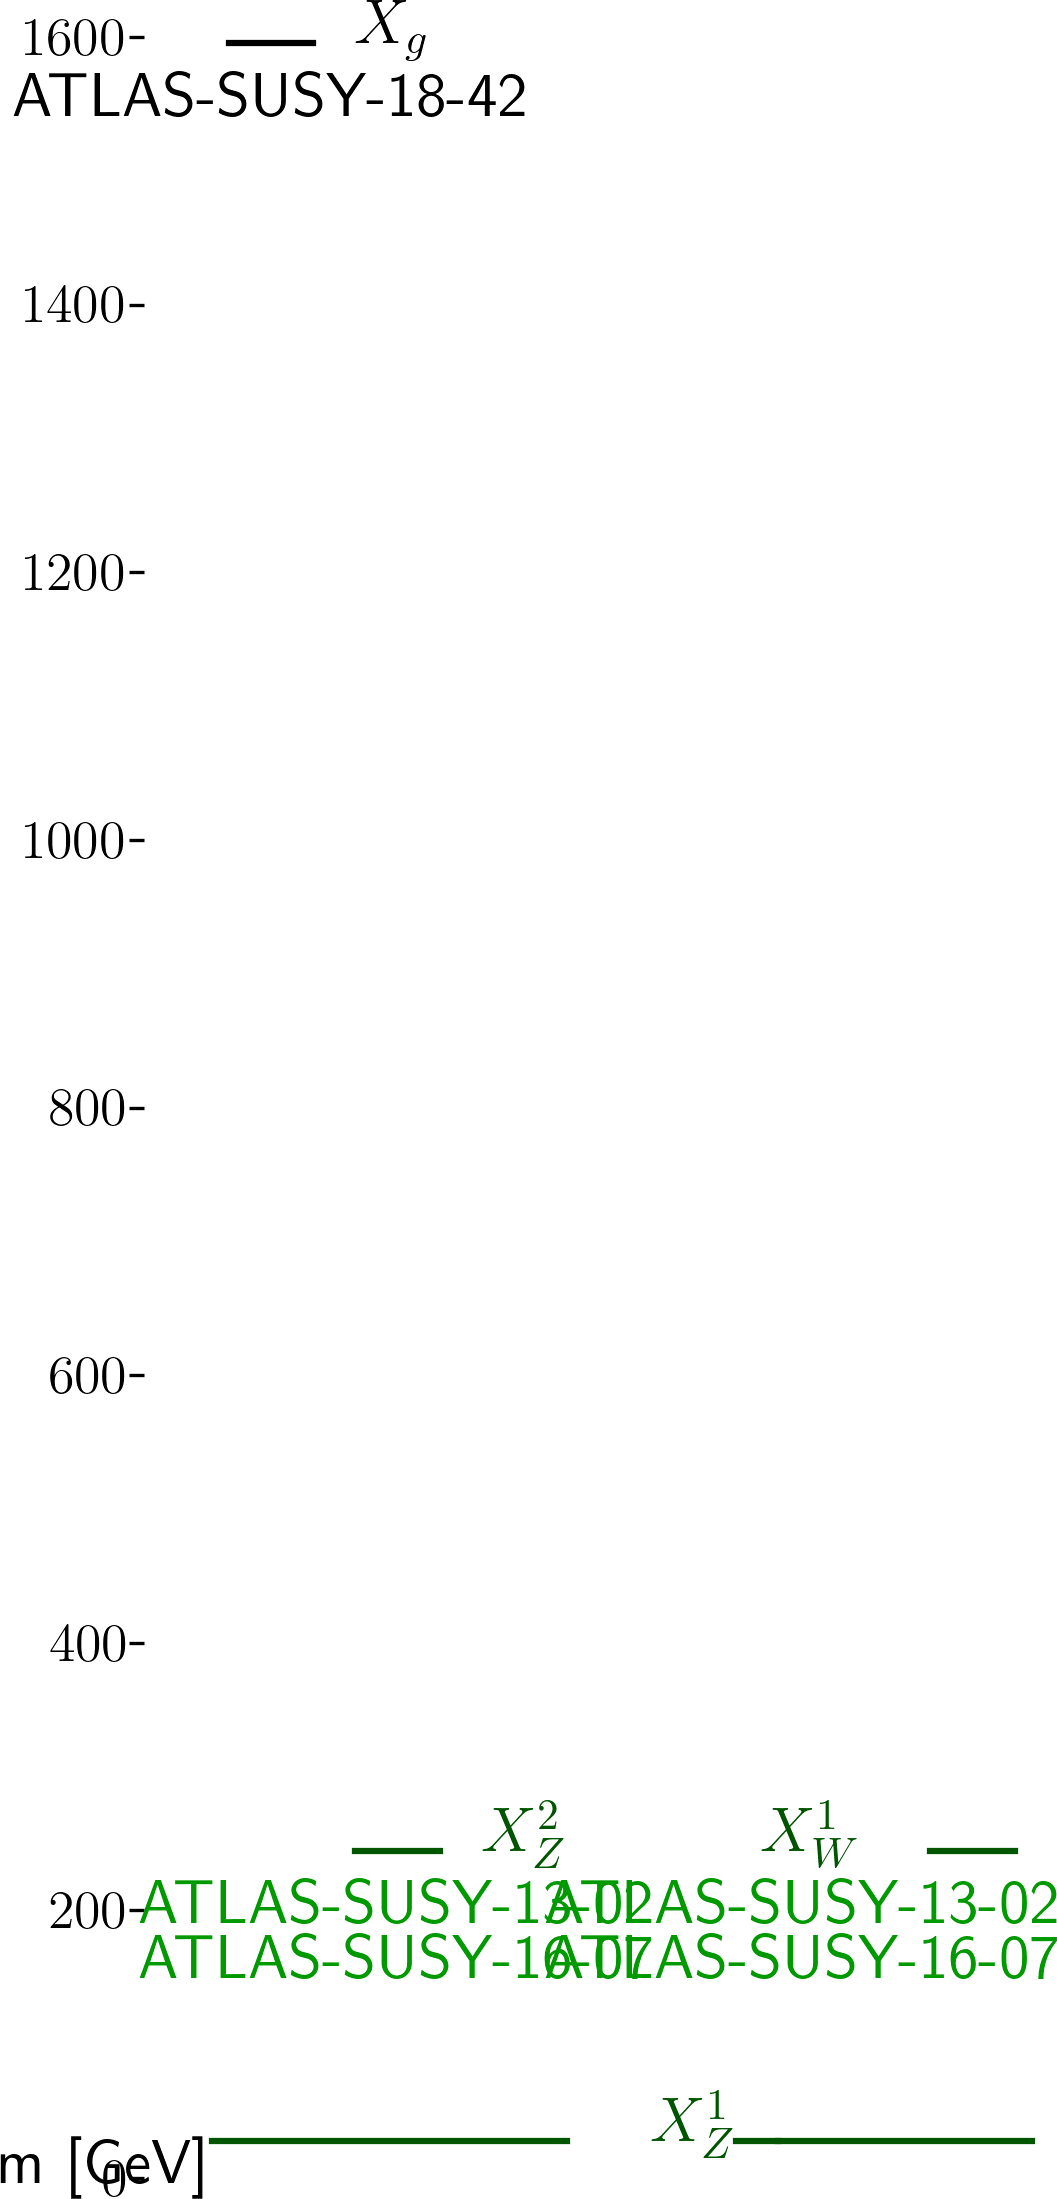
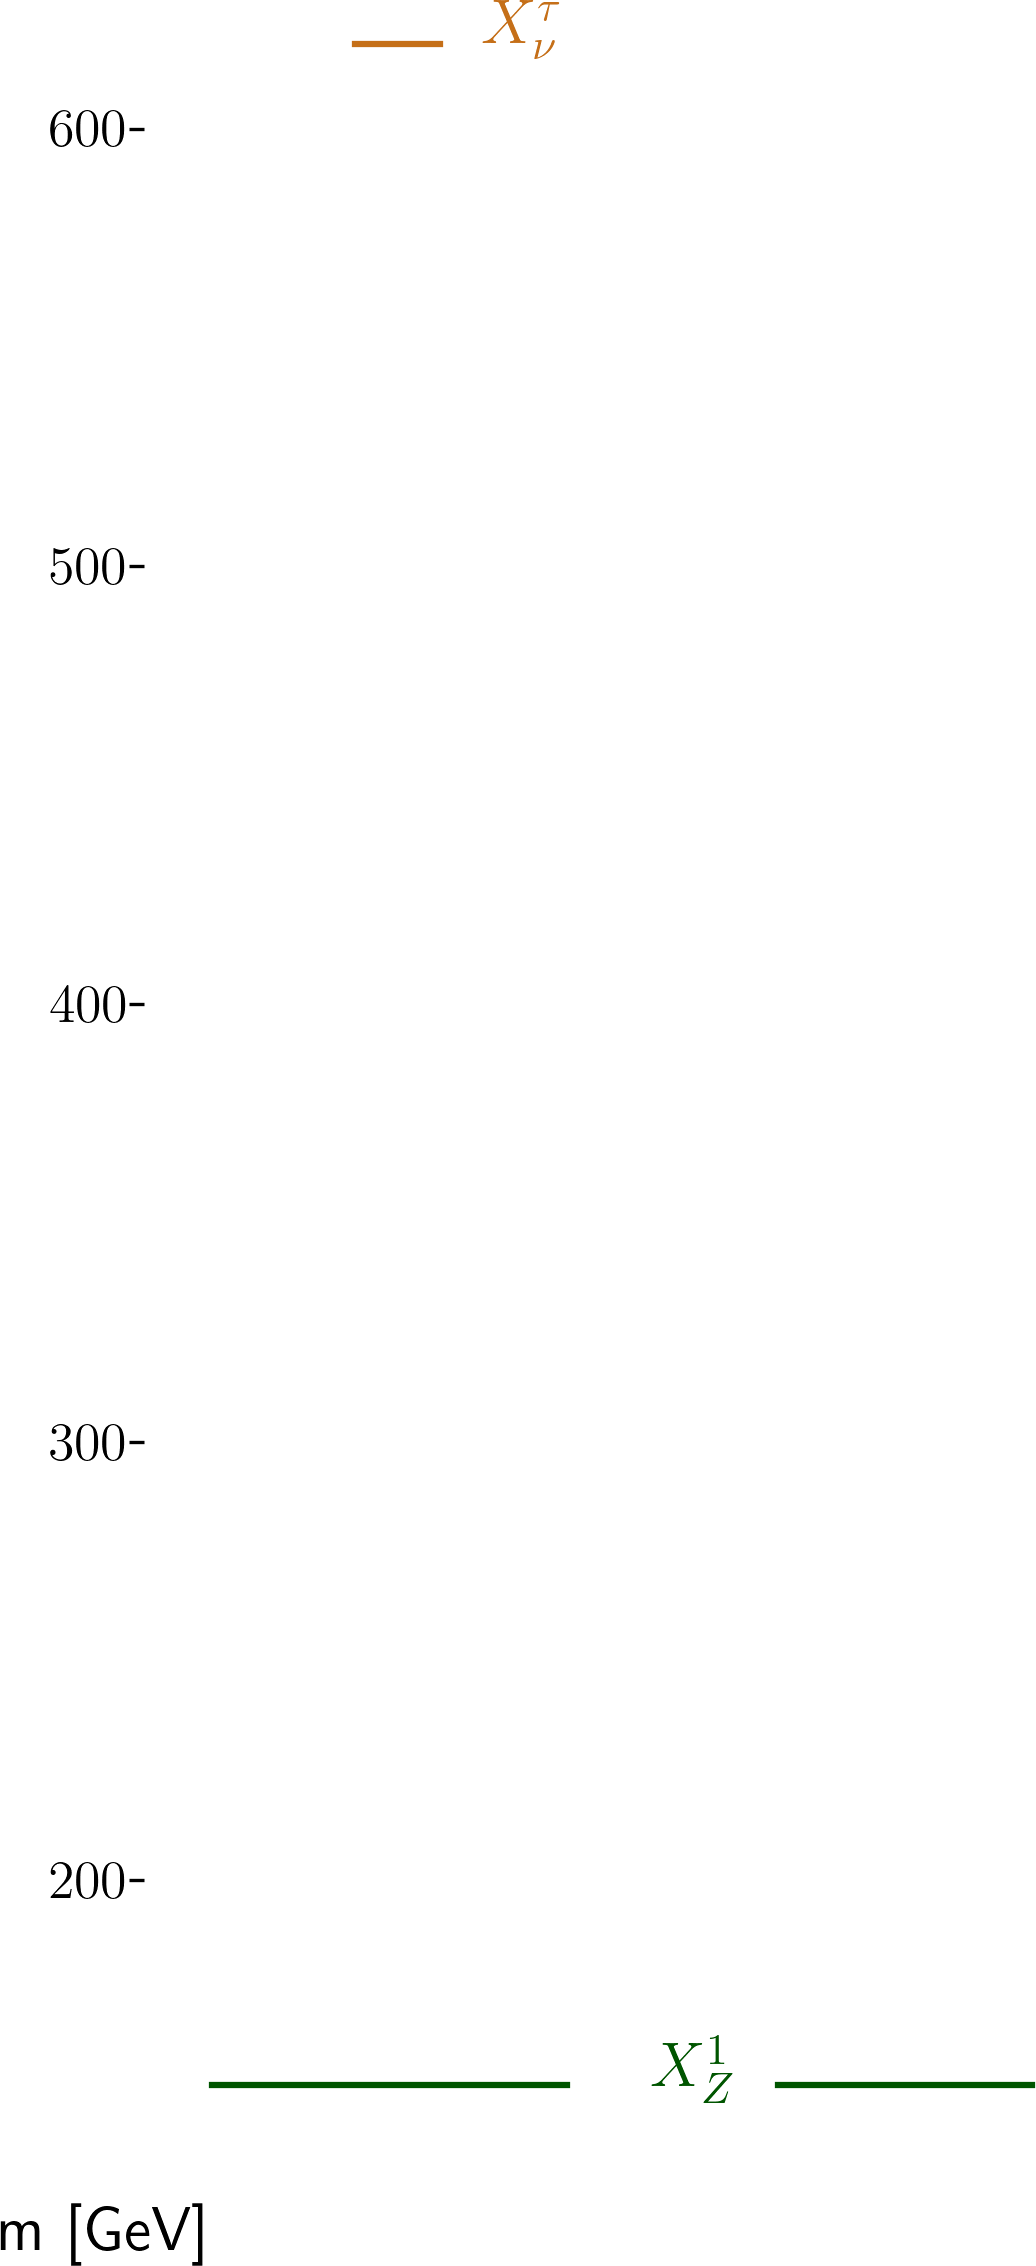
automated update by plotHiscore.py to ewk7_310:     K=10.539 TL=12.79 walkerid=0

diff --git a/protomodels/ewk7_310/rawnumbers.html b/protomodels/ewk7_310/rawnumbers.html
@@ -1,19 +1,8 @@
 <table>
 <tr><th>Analysis Name</th><th>Type</th><th>Dataset</th><th>Topos</th><th>Observed</th><th>Expected</th><th>Approx &sigma;</th><th>Particles</th>
 </tr>
-<tr><td><a href=https://atlas.web.cern.ch/Atlas/GROUPS/PHYSICS/PAPERS/SUSY-2018-42/>ATLAS-SUSY-2018-42</a></td><td>em</td> <td>SR1400_High_long</td><td>TRHadGM1</td><td>7</td><td>0.70 +/- 0.40</td><td style="text-align:right">4.3 &sigma;</td><td style="text-align:right">X<sub>g</sub></td></tr>
-<tr><td><a href=https://atlas.web.cern.ch/Atlas/GROUPS/PHYSICS/PAPERS/EXOT-2018-06/>ATLAS-EXOT-2018-06</a></td><td>em</td> <td>EM10</td><td>TChiISR</td><td>413</td><td>359.00 +/- 10.00</td><td style="text-align:right">2.4 &sigma;</td><td style="text-align:right">X<sup>1</sup><sub>Z</sub>, X<sup>2</sup><sub>Z</sub></td></tr>
-<tr><td><a href=http://cms-results.web.cern.ch/cms-results/public-results/publications/EXO-20-004/>CMS-EXO-20-004</a></td><td>comb</td> <td>-</td><td>TChiISR</td><td> 7e+01 fb </td><td> 5e+01 fb</td><td style="text-align:right">2.2 &sigma;</td><td style="text-align:right">X<sup>1</sup><sub>Z</sub>, X<sup>2</sup><sub>Z</sub></td></tr>
-<tr><td><a href=https://atlas.web.cern.ch/Atlas/GROUPS/PHYSICS/PAPERS/SUSY-2013-04/>ATLAS-SUSY-2013-04</a></td><td>em</td> <td>GtGrid_SR_10ij5 ...</td><td>T1bbbb</td><td>3</td><td>1.37 +/- 0.35</td><td style="text-align:right">1.2 &sigma;</td><td style="text-align:right">X<sup>1</sup><sub>Z</sub>, X<sup>2</sup><sub>Z</sub></td></tr>
-<tr><td><a href=https://atlas.web.cern.ch/Atlas/GROUPS/PHYSICS/PAPERS/SUSY-2016-07/>ATLAS-SUSY-2016-07</a></td><td>em</td> <td>4j_Meff_1000</td><td>T1</td><td>142</td><td>124.00 +/- 12.00</td><td style="text-align:right">1.1 &sigma;</td><td style="text-align:right">X<sup>1</sup><sub>W</sub>, X<sup>1</sup><sub>Z</sub>, X<sup>2</sup><sub>Z</sub></td></tr>
-<tr><td><a href=https://twiki.cern.ch/twiki/bin/view/CMSPublic/PhysicsResultsSUS13012>CMS-SUS-13-012</a></td><td>em</td> <td>6NJet8_800HT100 ...</td><td>T1bbbb</td><td>35</td><td>28.60 +/- 6.90</td><td style="text-align:right">0.7 &sigma;</td><td style="text-align:right">X<sup>1</sup><sub>Z</sub>, X<sup>2</sup><sub>Z</sub></td></tr>
-<tr><td><a href=https://atlas.web.cern.ch/Atlas/GROUPS/PHYSICS/PAPERS/SUSY-2013-02/>ATLAS-SUSY-2013-02</a></td><td>em</td> <td>SR6jl</td><td>T1</td><td>121</td><td>111.00 +/- 11.00</td><td style="text-align:right">0.7 &sigma;</td><td style="text-align:right">X<sup>1</sup><sub>W</sub>, X<sup>1</sup><sub>Z</sub>, X<sup>2</sup><sub>Z</sub></td></tr>
+<tr><td><a href=https://atlas.web.cern.ch/Atlas/GROUPS/PHYSICS/PAPERS/EXOT-2018-06/>ATLAS-EXOT-2018-06</a></td><td>em</td> <td>EM10</td><td>TChiISR</td><td>413</td><td>359.00 +/- 10.00</td><td style="text-align:right">2.4 &sigma;</td><td style="text-align:right">X<sup>1</sup><sub>Z</sub></td></tr>
+<tr><td><a href=http://cms-results.web.cern.ch/cms-results/public-results/publications/EXO-20-004/>CMS-EXO-20-004</a></td><td>comb</td> <td>-</td><td>TChiISR</td><td> 7e+01 fb </td><td> 5e+01 fb</td><td style="text-align:right">2.4 &sigma;</td><td style="text-align:right">X<sup>1</sup><sub>Z</sub></td></tr>
 </table>
 <table style='color:grey'>
-<tr><th>Not in Best Combo</th><th>Type</th><th>Dataset</th><th>Topos</th><th>Observed</th><th>Expected</th><th>Approx &sigma;</th><th>Particles</th><tr><td><a href=http://cms-results.web.cern.ch/cms-results/public-results/publications/SUS-16-033/index.html>CMS-SUS-16-033</a></td><td>em</td> <td>SR6_Njet2_Nb2_H ...</td><td>T1bbbb</td><td>216</td><td>196.00 +/- 28.00</td><td style="text-align:right">0.6 &sigma;</td><td style="text-align:right">X<sup>1</sup><sub>Z</sub>, X<sup>2</sup><sub>Z</sub></td></tr>
-<tr><td><a href=http://cms-results.web.cern.ch/cms-results/public-results/publications/SUS-16-033/index.html>CMS-SUS-16-033</a></td><td>em</td> <td>SR1_Njet2_Nb0_H ...</td><td>T1</td><td>7838</td><td>7584.00 +/- 433.00</td><td style="text-align:right">0.6 &sigma;</td><td style="text-align:right">X<sup>1</sup><sub>W</sub>, X<sup>1</sup><sub>Z</sub>, X<sup>2</sup><sub>Z</sub></td></tr>
-<tr><td><a href=http://cms-results.web.cern.ch/cms-results/public-results/publications/SUS-16-033/index.html>CMS-SUS-16-033</a></td><td>em</td> <td>SR12_Njet5_Nb1_ ...</td><td>T1bbbb</td><td>48</td><td>42.20 +/- 9.70</td><td style="text-align:right">0.5 &sigma;</td><td style="text-align:right">X<sup>1</sup><sub>Z</sub>, X<sup>2</sup><sub>Z</sub></td></tr>
-<tr><td><a href=http://cms-results.web.cern.ch/cms-results/public-results/publications/SUS-16-033/index.html>CMS-SUS-16-033</a></td><td>em</td> <td>SR7_Njet3_Nb1_H ...</td><td>T1bbbb</td><td>123</td><td>113.00 +/- 18.00</td><td style="text-align:right">0.5 &sigma;</td><td style="text-align:right">X<sup>1</sup><sub>Z</sub>, X<sup>2</sup><sub>Z</sub></td></tr>
-<tr><td><a href=http://cms-results.web.cern.ch/cms-results/public-results/publications/SUS-16-033/index.html>CMS-SUS-16-033</a></td><td>em</td> <td>SR3_Njet5_Nb0_H ...</td><td>T1</td><td>819</td><td>806.00 +/- 57.00</td><td style="text-align:right">0.2 &sigma;</td><td style="text-align:right">X<sup>1</sup><sub>W</sub>, X<sup>1</sup><sub>Z</sub>, X<sup>2</sup><sub>Z</sub></td></tr>
-<tr><td><a href=http://cms-results.web.cern.ch/cms-results/public-results/publications/SUS-16-033/index.html>CMS-SUS-16-033</a></td><td>em</td> <td>SR11_Njet7_Nb1_ ...</td><td>T1, T1bbbb</td><td>890</td><td>969.00 +/- 80.00</td><td style="text-align:right">-0.9 &sigma;</td><td style="text-align:right">X<sup>1</sup><sub>W</sub>, X<sup>1</sup><sub>Z</sub>, X<sup>2</sup><sub>Z</sub></td></tr>
-</table>
+<tr><th>Not in Best Combo</th><th>Type</th><th>Dataset</th><th>Topos</th><th>Observed</th><th>Expected</th><th>Approx &sigma;</th><th>Particles</th></table>

diff --git a/protomodels/ewk7_310/index.html b/protomodels/ewk7_310/index.html
@@ -1,24 +1,22 @@
 <html>
 <body>
 <center>
-<table><td><h1>Current best protomodel: <i>K</i>=23.43, <i>TL</i>=27.43</h1><td><img height=60px src=https://smodels.github.io//protomodels/logos/protomodel_lego.png></table>
+<table><td><h1>Current best protomodel: <i>K</i>=10.54, <i>TL</i>=12.79</h1><td><img height=60px src=https://smodels.github.io//protomodels/logos/protomodel_lego.png></table>
 </center>
-<b><a href=./hiscore.slha>ProtoModel</a> <a href=./pmodel.dict>(dict)</a> produced with <a href=https://smodels.github.io//docs/Validation310>database v3.1.0</a>, combination strategy <a href=./matrix.png>aggressive</a> in walker 0 step 872.</b> <br>
+<b><a href=./hiscore.slha>ProtoModel</a> <a href=./pmodel.dict>(dict)</a> produced with <a href=https://smodels.github.io//docs/Validation310>database v3.1.0</a>, combination strategy <a href=./matrix.png>aggressive</a> in walker 0 step 100.</b> <br>
 <table width=80%>
 <tr><td>
 <br><b>Critics:</b> passed both critics<br>
-<br><b>LLHD Critic:</b> ATLAS-SUSY-2018-42:SR1400_High_long, CMS-EXO-20-004:combined, ATLAS-EXOT-2018-06:EM9, ATLAS-SUSY-2013-02:SR6jl, ATLAS-SUSY-2016-07:6j_Meff_1200:: <span style='color: darkgreen;'>robs=0.91</span><br>
-<br><b>10 predictions available. Highest r values are:</b><br><ul>
-<li><a href=https://atlas.web.cern.ch/Atlas/GROUPS/PHYSICS/PAPERS/EXOT-2018-06/>ATLAS-EXOT-2018-06</a>:EM9:TChiISR r=1.35, r<sub>exp</sub>=1.19<br>
-<li><a href=http://atlas.web.cern.ch/Atlas/GROUPS/PHYSICS/PAPERS/SUSY-2016-32/>ATLAS-SUSY-2016-32</a>:ul:TRHadGM1 r=1.26, r<sub>exp</sub>=4.23<br>
-<li><a href=https://atlas.web.cern.ch/Atlas/GROUPS/PHYSICS/PAPERS/SUSY-2018-42/>ATLAS-SUSY-2018-42</a>:SR1400_High_long:TRHadGM1 r=0.60, r<sub>exp</sub>=2.22<br>
-<li><a href=https://atlas.web.cern.ch/Atlas/GROUPS/PHYSICS/PAPERS/SUSY-2016-07/>ATLAS-SUSY-2016-07</a>:6j_Meff_1200:T1 r=0.27, r<sub>exp</sub>=0.28<br>
+<br><b>LLHD Critic:</b> ATLAS-EXOT-2018-06:EM8, CMS-EXO-20-004:combined:: <span style='color: darkgreen;'>robs=0.97</span><br>
+<br><b>2 predictions available. Highest r values are:</b><br><ul>
+<li><a href=https://atlas.web.cern.ch/Atlas/GROUPS/PHYSICS/PAPERS/EXOT-2018-06/>ATLAS-EXOT-2018-06</a>:EM8:TChiISR r=1.25, r<sub>exp</sub>=1.36<br>
+<li><a href=http://cms-results.web.cern.ch/cms-results/public-results/publications/EXO-20-004/>CMS-EXO-20-004</a>:SR_2018_16:TChiISR r=0.29, r<sub>exp</sub>=0.47<br>
 </ul>
-<td><img width=600px src=./texdoc.png?1755701318>
-<br><span style='font-size: smaller; color: darkred;'>Last updated: Wed Aug 20 16:48:38 2025</span>
+<td><img width=600px src=./texdoc.png?1755869489>
+<br><span style='font-size: smaller; color: darkred;'>Last updated: Fri Aug 22 15:31:29 2025</span>
 </table><table style="width:80%">
-<td width=45%><img height=580px src=./ruler.png?1755701318><td width=55%><img height=220px src=./decays.png?1755701318>
-<font size=-3><iframe type="text/html" height="350px" width="100%" frameborder="0" src="./rawnumbers.html?1755701318"></iframe></font>
+<td width=45%><img height=580px src=./ruler.png?1755869489><td width=55%><img height=220px src=./decays.png?1755869489>
+<font size=-3><iframe type="text/html" height="350px" width="100%" frameborder="0" src="./rawnumbers.html?1755869489"></iframe></font>
 </table>
 </body>
 </html>
